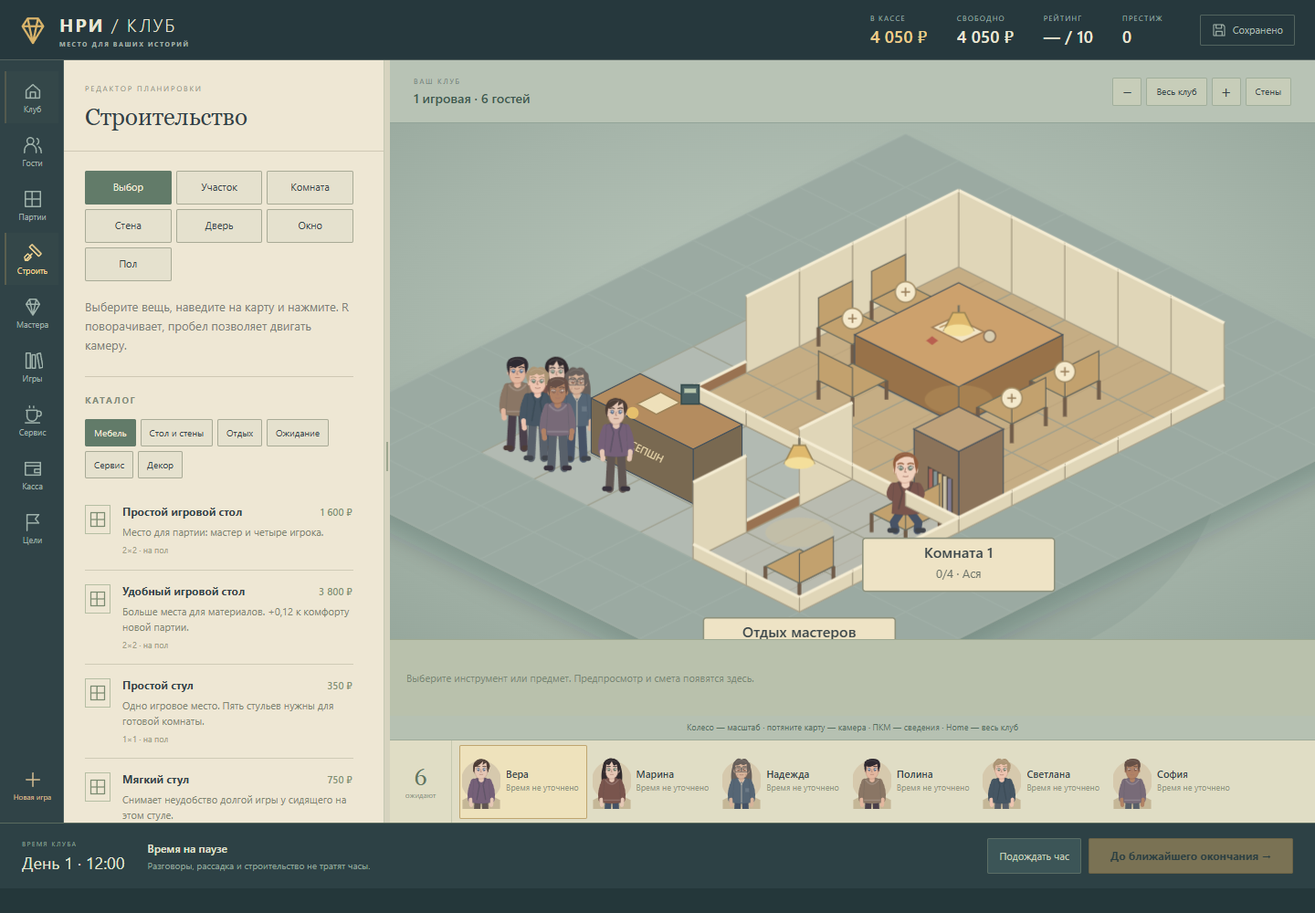
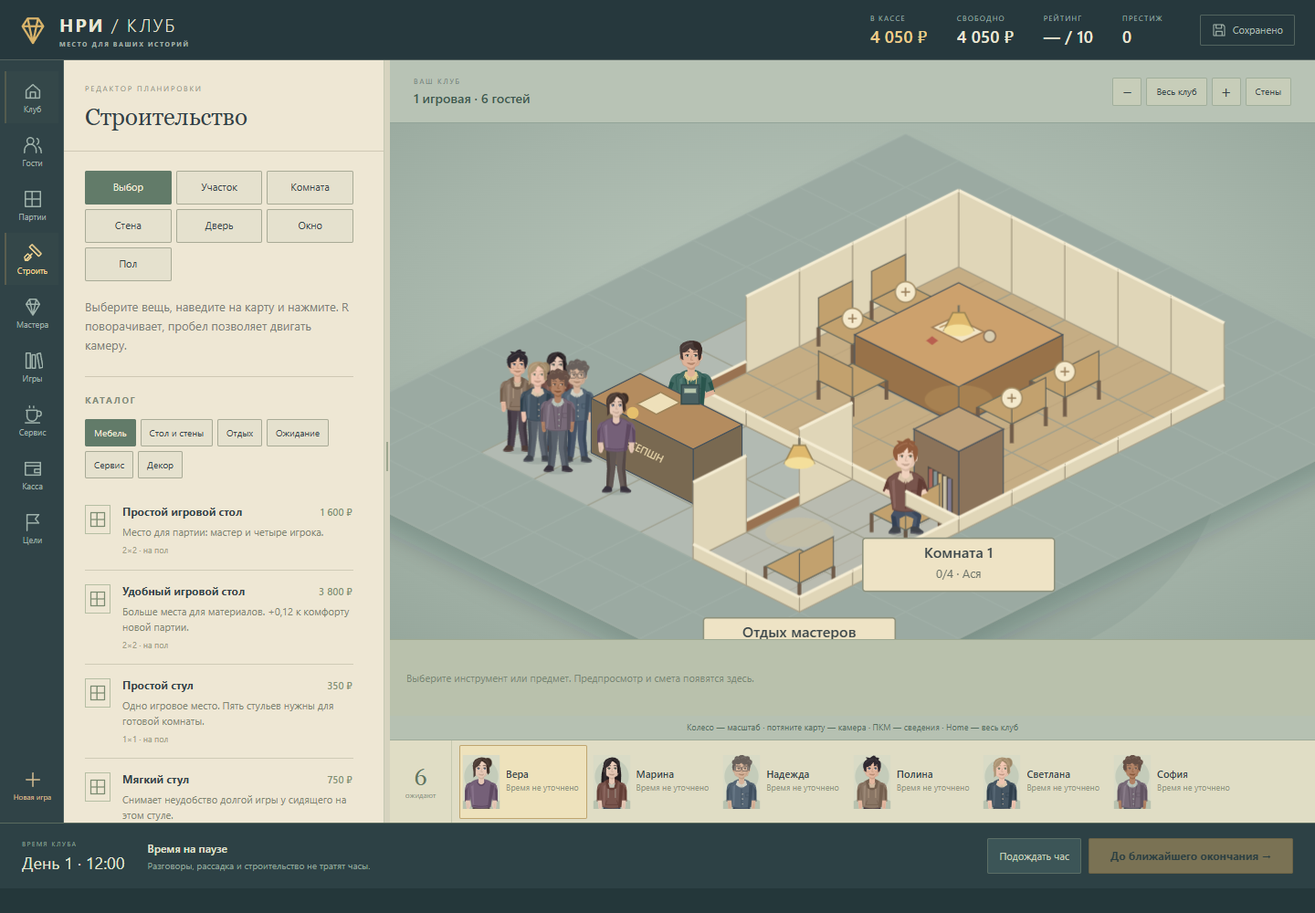
Add reception administrator and redraw club characters
Improve adult proportions, faces, hair, outfits and seated/back poses. Keep the administrator visible at every desk rotation. Validate 50 model checks and 19 silent browser scenarios; include live publication verification.

diff --git a/src/ui/people.js b/src/ui/people.js
@@ -1,25 +1,69 @@
 export const escapeHTML = value => String(value??'').replace(/[&<>"']/g,c=>({'&':'&amp;','<':'&lt;','>':'&gt;','"':'&quot;',"'":'&#39;'}[c]));
-export function personArt(person,{seated=false,back=false,drag=false}={}){
- const identity=person?.identity??person??{},p=identity.portrait??{},name=identity.name??person?.name??'';
- const seed=[...name].reduce((n,c)=>(n*31+c.charCodeAt(0))>>>0,7),hair=p.hairColor??['#624236','#352f35','#a66b42','#b4a591'][seed%4],skin=p.skin??'#edc2a3',shade=p.shade??'#c79d86',coat=p.coat??['#6e8791','#b77c61','#7d8063','#82758c'][seed%4],pants=p.trousers??'#374654',shoe=p.shoes??'#2c3039',eyes=p.iris??'#526c72';
- const headY=seated?-65:-96,shoulder=seated?-49:-80,hip=seated?-19:-43;
- const style=seed%5,long=/long|wave|bob|braid/.test(p.hair??'')||identity.grammar==='feminine'&&seed%3===0,older=(identity.age??person?.age??30)>47;
- const group=(className,x,y,art)=>'<g class="'+className+'" style="transform-origin:'+x+'px '+y+'px">'+art+'</g>';
- const leftLeg=seated?'<path d="M-6-19L-12-10-10-2" stroke="'+pants+'" stroke-width="8"/><path d="M-10-2h-6" stroke="'+shoe+'" stroke-width="5"/>':'<path d="M-6-43L-8-3" stroke="'+pants+'" stroke-width="10"/><path d="M-8-3h-6" stroke="'+shoe+'" stroke-width="6"/>';
- const rightLeg=seated?'<path d="M6-19L13-10 12-2" stroke="'+pants+'" stroke-width="8"/><path d="M12-2h6" stroke="'+shoe+'" stroke-width="5"/>':'<path d="M6-43L8-3" stroke="'+pants+'" stroke-width="10"/><path d="M8-3h6" stroke="'+shoe+'" stroke-width="6"/>';
- const armLeft=seated?'<path d="M-12-46Q-20-34-5-35" stroke="'+coat+'" stroke-width="9"/><path d="M-7-35h6" stroke="'+skin+'" stroke-width="5"/>':'<path d="M-12-77Q-19-62-17-48" stroke="'+coat+'" stroke-width="9"/><path d="M-17-48l1 9" stroke="'+skin+'" stroke-width="6"/>';
- const armRight=seated?'<path d="M12-46Q20-34 6-35" stroke="'+coat+'" stroke-width="9"/><path d="M7-35H3" stroke="'+skin+'" stroke-width="5"/>':'<path d="M12-77Q19-62 17-48" stroke="'+coat+'" stroke-width="9"/><path d="M17-48l-1 9" stroke="'+skin+'" stroke-width="6"/>';
- const outfit=seed%3===0?'<path d="M-5 '+(shoulder-1)+'L0 '+(shoulder+8)+'l5-9M0 '+(shoulder+8)+'V'+hip+'" stroke="#e9dbc1" opacity=".7" stroke-width="1.2" fill="none"/><path d="M6 '+(shoulder+14)+'h6v6H6Z" fill="#ffffff" opacity=".12"/>':seed%3===1?'<path d="M-10 '+(shoulder+1)+'Q0 '+(shoulder+14)+' 10 '+(shoulder+1)+'M-12 '+(hip-4)+'h24" fill="none" stroke="#ffffff" opacity=".16" stroke-width="2"/>':'<path d="M-7 '+(shoulder-2)+'L-3 '+(shoulder+9)+'l-4 '+(hip-shoulder-14)+'M7 '+(shoulder-2)+'L3 '+(shoulder+9)+'l4 '+(hip-shoulder-14)+'" fill="none" stroke="#202f35" opacity=".25" stroke-width="2"/>';
- const hairStyles=[
-  '<path d="M-12-1Q-16-15-3-17Q14-19 13-5L10 5 8-9Q-2-2-9-6l-1 12Z" fill="'+hair+'"/>',
-  '<path d="M-13 2Q-15-15-1-17Q13-16 14-5L10 6 8-11 2-7 3-13Q-5-5-10-4l-1 11Z" fill="'+hair+'"/>',
-  '<path d="M-12 1Q-17-8-10-14Q-6-20 0-16Q7-20 11-12Q17-9 12 3L9 6 8-9Q2-5-1-9Q-7-5-10-7l-1 13Z" fill="'+hair+'"/>',
-  '<path d="M-13 3Q-18-15-2-18Q12-18 14-4L10 7 8-8 3-6 0-13-4-7-9-8-10 8Z" fill="'+hair+'"/>',
-  '<path d="M-12 0Q-15-14-2-16Q10-17 13-5L11 6 8-10Q-1-15-10-6l-1 13Z" fill="'+hair+'"/>'
- ];
- const face=back?'': '<path d="M-8-4q3-2 6 0M2-4q3-2 6 0" fill="none" stroke="'+hair+'" stroke-width="1.2"/><path d="M-8-1Q-5-4-2 0Q-5 4-8-1M2 0Q5-4 8-1Q5 4 2 0" fill="#fff9ed" stroke="#5c4c49" stroke-width=".6"/><ellipse cx="-4.7" cy=".1" rx="1.65" ry="2.2" fill="'+eyes+'"/><ellipse cx="4.7" cy=".1" rx="1.65" ry="2.2" fill="'+eyes+'"/><circle cx="-4.5" cy="-.5" r=".6" fill="white"/><circle cx="5" cy="-.5" r=".6" fill="white"/><path d="M0 0l-1 4h2M-3 8q3 '+(seed%2?1.5:0)+' 6 0" fill="none" stroke="#a47667" stroke-width=".8"/>'+(older?'<path d="M-10 2l2 2M8 4l2-2M-6 7l-1 3M6 7l1 3" stroke="'+shade+'" stroke-width=".6"/>':'')+(p.glasses?'<path d="M-10-3h9v7h-9Zm11 0h9v7H1ZM-1-1h2" fill="none" stroke="#4a5152" stroke-width=".8"/>':'')+(p.freckles?'<path d="M-8 5h.1M-5 5h.1M5 5h.1M8 5h.1" stroke="#b58367" stroke-width="1"/>':'')+(p.beard?'<path d="M-9 6Q0 18 9 6L7 13Q0 18-7 13Z" fill="'+hair+'" opacity=".6"/>':'');
- return '<g class="person '+(seated?'is-seated':'')+'" stroke-linecap="round" stroke-linejoin="round">'+(long?'<path d="M-12 '+(headY-10)+'Q-20 '+(headY+6)+'-14 '+(shoulder+14)+'L14 '+(shoulder+14)+'Q20 '+(headY+7)+' 12 '+(headY-10)+'Z" fill="'+hair+'"/>':'')+group(drag?'limb leg-left':'',-6,hip,leftLeg)+group(drag?'limb leg-right':'',6,hip,rightLeg)+group(drag?'limb arm-left':'',-12,shoulder,armLeft)+group(drag?'limb arm-right':'',12,shoulder,armRight)+'<path d="M-12 '+shoulder+'Q0 '+(shoulder-7)+' 12 '+shoulder+'L14 '+hip+'Q0 '+(hip+3)+'-14 '+hip+'Z" fill="'+coat+'" stroke="#26333d" stroke-opacity=".18" stroke-width=".8"/><path d="M-4 '+(headY+10)+'V'+(shoulder+2)+'q4 5 8 0V'+(headY+10)+'" fill="'+skin+'"/>'+(!back?outfit:'')+'<g transform="translate(0 '+headY+')"><path d="M-10-6Q-12-14 0-14T10-6v10Q8 14 0 15T-10 4Z" fill="'+(back?hair:skin)+'" stroke="'+shade+'" stroke-width=".65"/><ellipse cx="-10.5" cy="2" rx="2" ry="3" fill="'+skin+'"/><ellipse cx="10.5" cy="2" rx="2" ry="3" fill="'+skin+'"/>'+face+hairStyles[style]+'<path d="M-9-11q8-7 17 0" fill="none" stroke="#ffffff" stroke-opacity=".12" stroke-width="1"/></g></g>';
+
+// One miniature style for portraits, walking and seated people. Feet remain
+// at the origin and every animated limb stays attached to its joint.
+export const ADMINISTRATOR=Object.freeze({name:'Администратор',age:32,grammar:'masculine',role:'administrator',portrait:Object.freeze({skin:'#dfb399',hairColor:'#493b37',hair:'short',coat:'#426b64',trousers:'#344349',shoes:'#303b3e',accent:'#d4bd86',iris:'#536d62',outfit:'vest',bodyShape:'regular',face:2})});
+const color=(value,fallback)=>/^#[\da-f]{6}$/i.test(value??'')?value:fallback;
+function tint(hex,amount){const n=parseInt(hex.slice(1),16),part=shift=>Math.max(0,Math.min(255,(n>>shift&255)+amount)).toString(16).padStart(2,'0');return '#'+part(16)+part(8)+part(0);}
+const path=(d,fill,extra='')=>'<path d="'+d+'" fill="'+fill+'" '+extra+'/>';
+const line=(d,stroke,width=1)=>path(d,'none','stroke="'+stroke+'" stroke-width="'+width+'"');
+const limb=(name,x,y,art)=>'<g class="limb '+name+'" style="transform-origin:'+x+'px '+y+'px">'+art+'</g>';
+
+export function personArt(person,{seated=false,back=false,drag=false,reception=false}={}){
+ const identity=person?.identity??person??{},p=identity.portrait??{},name=identity.name??person?.profile?.name??person?.name??'Гость';
+ const seed=[...name].reduce((n,c)=>(n*31+c.charCodeAt(0))>>>0,7),skin=color(p.skin,'#e3b79e'),skinDark=tint(skin,-24),skinLight=tint(skin,13),hair=color(p.hairColor,'#57433a'),hairDark=tint(hair,-15),hairLight=tint(hair,21),coat=color(p.coat,['#627f84','#9c705c','#728368','#82718b'][seed%4]),coatDark=tint(coat,-23),coatLight=tint(coat,17),pants=color(p.trousers,'#3c4e58'),shoe=color(p.shoes,'#303b42'),accent=color(p.accent,'#d8cab2'),eyes=color(p.iris,'#5a6c66');
+ const head=seated?-77:-104,shoulder=seated?-58:-85,hip=seated?-22:-49,build=p.bodyShape??['lean','regular','soft','broad','compact'][seed%5],wide=build==='broad'?18:build==='lean'?14:16,waist=build==='soft'?14:build==='lean'?10:12,age=identity.age??person?.age??30,style=p.hair??['short','bob','curly','tied'][seed%4],outfit=p.outfit??['shirt','hoodie','cardigan','sweater'][seed%4],admin=identity.role==='administrator';
+ const faceWidth=[9.2,9.8,10,8.8,9.5,10.4][(p.face??seed)%6],jaw=faceWidth-2,ink=tint(hair,-14),happy=['happy','delighted'].includes(p.expression),eyeY=p.eastAsian?-.5:0;
+ let hairBehind='';
+ if(['long','braid','ponytail'].includes(style))hairBehind=path('M-10 '+(head-7)+'Q-17 '+(head+5)+'-14 '+(shoulder+13)+'Q-6 '+(shoulder+20)+' 2 '+(shoulder+10)+'L11 '+(shoulder+12)+'Q16 '+(head+7)+' 10 '+(head-9)+'Z',hairDark)+path('M-10 '+head+'Q-13 '+(head+15)+'-10 '+(shoulder+10)+'L-7 '+(shoulder+12)+'Q-8 '+(head+10)+'-7 '+head+'Z',hair);
+ if(['tied','ponytail'].includes(style))hairBehind+='<ellipse cx="9" cy="'+(head-8)+'" rx="6" ry="7" fill="'+hairDark+'"/>'+(style==='ponytail'?path('M11 '+(head-8)+'Q24 '+head+' 17 '+(head+25)+'Q12 '+(head+19)+' 14 '+(head+7)+'Z',hair):'');
+ if(style==='bob')hairBehind=path('M-11 '+(head-6)+'Q-17 '+(head+4)+'-13 '+(head+19)+'Q0 '+(head+25)+' 13 '+(head+17)+'L12 '+(head-6)+'Z',hairDark);
+ const leftLeg=seated?path('M-11-24Q-12-21-15-17L-13-4-6-4-6-14 0-17 0-24Z',pants)+path('M-14-17L-10-16-8-4-13-4Z',tint(pants,-19)):path('M-12-51L1-50-1-27-4-4-12-4-11-27Z',pants)+path('M-12-49L-8-47-7-27-9-4-12-4-11-27Z',tint(pants,-17));
+ const rightLeg=seated?path('M0-24L11-24 16-17 13-3 6-3 8-14 0-17Z',tint(pants,5))+path('M12-21L16-17 13-3 10-3 12-15 6-20Z',tint(pants,-12)):path('M0-50L12-50 11-27 13-4 5-4 1-26Z',tint(pants,6))+path('M9-48L12-49 11-27 13-4 10-4 7-27Z',tint(pants,-13));
+ const shoesLeft=path('M-13-6Q-9-7-5-4L-5 0Q-10 3-17 1L-17-1Z',shoe)+line('M-16 0Q-11 2-5 0',tint(shoe,27),1.1),shoesRight=path('M5-5Q8-7 13-5L18-1Q19 2 13 2L5 1Z',shoe)+line('M6 0Q13 2 17 0',tint(shoe,27),1.1);
+ let arms='';
+ for(const side of [-1,1]){
+  const sleeve=seated?path('M11-58Q18-58 20-51L23-42 16-38 10-48Z',coat)+path('M19-52L23-42 20-40 16-50Z',coatDark):reception?path('M11-85Q19-86 22-78L25-66 18-61 12-72Z',coat)+path('M22-77L25-66 22-64 18-75Z',coatDark):path('M'+(wide-6)+' '+(shoulder+1)+'Q'+(wide+4)+' '+(shoulder-1)+' '+(wide+5)+' '+(shoulder+10)+'L'+(wide+5)+' '+(shoulder+27)+' '+(wide-2)+' '+(shoulder+28)+' '+(wide-4)+' '+(shoulder+11)+'Z',coat)+path('M'+(wide+1)+' '+(shoulder+7)+'L'+(wide+5)+' '+(shoulder+12)+' '+(wide+5)+' '+(shoulder+27)+' '+(wide+2)+' '+(shoulder+27)+'Z',coatDark);
+  const hand=seated?path('M20-44L22-40 10-35 7-39Z',skin)+path('M8-40Q3-41 2-38L3-35 10-35 12-38Z',skinLight)+line('M4-37h5',skinDark,.6):reception?path('M24-68L25-63 11-57 8-62Z',skin)+path('M10-63Q4-64 2-61L3-57 11-57 13-60Z',skinLight)+line('M4-59h5',skinDark,.6):path('M'+(wide-2)+' '+(shoulder+26)+'L'+(wide+4)+' '+(shoulder+26)+' '+(wide+3)+' '+(shoulder+36)+'Q'+(wide+2)+' '+(shoulder+40)+' '+(wide-1)+' '+(shoulder+38)+'L'+(wide-3)+' '+(shoulder+33)+'Z',skin)+line('M'+(wide+1)+' '+(shoulder+31)+'v5',skinDark,.6);
+  arms+=limb(side===-1?'arm-left':'arm-right',side*(wide-3),shoulder,'<g transform="scale('+side+' 1)">'+sleeve+hand+'</g>');
+ }
+ let body=path('M-'+(wide-6)+' '+(shoulder-1)+'Q0 '+(shoulder-7)+' '+(wide-6)+' '+(shoulder-1)+'L'+wide+' '+(shoulder+4)+' '+(waist+1)+' '+(hip-1)+'Q0 '+(hip+3)+'-'+(waist+1)+' '+(hip-1)+'L-'+wide+' '+(shoulder+4)+'Z',coat,'stroke="'+coatDark+'" stroke-width=".65"');
+ body+=path('M'+(wide-5)+' '+(shoulder+3)+'L'+wide+' '+(shoulder+5)+' '+(waist+1)+' '+(hip-1)+' '+(waist-3)+' '+(hip+1)+'Z',coatDark)+path('M-'+(wide-4)+' '+(shoulder+6)+'L-'+(wide-7)+' '+(shoulder+4)+' -'+(waist-2)+' '+(hip-3)+' -'+waist+' '+(hip-2)+'Z',coatLight);
+ if(!back){
+  if(outfit==='hoodie')body+=path('M-9 '+(shoulder-1)+'Q0 '+(shoulder-9)+' 9 '+(shoulder-1)+'L7 '+(shoulder+8)+'Q0 '+(shoulder+15)+'-7 '+(shoulder+8)+'Z',coatDark)+path('M-5 '+(shoulder+1)+'Q0 '+(shoulder+5)+' 5 '+(shoulder+1)+'L3 '+(shoulder+8)+'H-3Z',accent)+line('M-5 '+(shoulder+10)+'v12M5 '+(shoulder+10)+'v12',tint(accent,-15),.8)+line('M-7 '+(hip-10)+'L-9 '+(hip-4)+'H9L7 '+(hip-10),coatDark,1);
+  else if(['shirt','vest','cardigan'].includes(outfit)){
+   body+=path('M-6 '+(shoulder-2)+'L0 '+(shoulder+9)+' 6 '+(shoulder-2)+'Z',accent)+path('M-6 '+(shoulder-2)+'L-8 '+(shoulder+4)+' -2 '+(shoulder+8)+' 0 '+(shoulder+3)+' 2 '+(shoulder+8)+' 8 '+(shoulder+4)+' 6 '+(shoulder-2)+' 0 '+(shoulder+3)+'Z',tint(accent,13))+line('M0 '+(shoulder+10)+'V'+(hip-2),coatDark,.9);
+   if(outfit!=='shirt')body+=line('M-7 '+(shoulder+3)+'L-5 '+(shoulder+11)+' -3 '+(hip-1)+'M7 '+(shoulder+3)+'L5 '+(shoulder+11)+' 3 '+(hip-1),tint(coat,-35),.8);
+   for(let i=0;i<3;i++)body+='<circle cx="1.5" cy="'+(shoulder+17+i*7)+'" r=".65" fill="'+accent+'"/>';
+   body+=line('M6 '+(shoulder+16)+'h6v5H6Z',coatDark,.75);
+  }else body+=path('M-7 '+(shoulder-2)+'Q0 '+(shoulder+8)+' 7 '+(shoulder-2)+'L5 '+(shoulder+3)+'Q0 '+(shoulder+9)+'-5 '+(shoulder+3)+'Z',coatDark)+line('M-'+waist+' '+(hip-3)+'Q0 '+hip+' '+waist+' '+(hip-3),coatDark,1.3);
+  if(admin)body+=line('M-4 '+(shoulder+4)+'L-2 '+(shoulder+22)+' 4 '+(shoulder+22)+' 6 '+(shoulder+4),accent,1.1)+path('M-3 '+(shoulder+20)+'h9v7H-3Z','#e9dfbf','stroke="'+coatDark+'" stroke-width=".5"')+line('M-1 '+(shoulder+23)+'h5',coatDark,.7);
+ }else body+=line('M0 '+(shoulder+5)+'V'+(hip-4),coatDark,.65)+line('M-'+(wide-4)+' '+(shoulder+9)+'Q0 '+(shoulder+4)+' '+(wide-4)+' '+(shoulder+9),coatDark,.65);
+ const neck=path('M-3.8 '+(head+8)+'L-4 '+(shoulder+1)+'Q0 '+(shoulder+6)+' 4 '+(shoulder+1)+'L3.8 '+(head+8)+'Z',back?skinDark:skin)+path('M-3.8 '+(head+9)+'Q0 '+(head+15)+' 4 '+(head+9)+'V'+(head+14)+'Q0 '+(head+17)+'-4 '+(head+13)+'Z',skinDark);
+ let face=path('M-'+faceWidth+'-5Q-'+(faceWidth+1)+'-12 0-12Q'+(faceWidth+1)+'-12 '+faceWidth+'-5L'+faceWidth+' 3Q'+(faceWidth-1)+' 8 '+jaw+' 10L2 13Q0 14-2 13L-'+jaw+' 10Q-'+faceWidth+' 7-'+faceWidth+' 3Z',back?hair:skin,'stroke="'+(back?hairDark:skinDark)+'" stroke-width=".5"');
+ face+='<ellipse cx="-'+(faceWidth+.25)+'" cy="2" rx="1.8" ry="3" fill="'+skinDark+'"/><ellipse cx="'+(faceWidth+.25)+'" cy="2" rx="1.8" ry="3" fill="'+skin+'"/>';
+ if(!back){
+  face+=path('M2-11Q'+(faceWidth+1)+'-11 '+faceWidth+'-4V4Q8 10 2 13L6 7 7-3Z',skinDark,'opacity=".5"')+path('M-7-7Q-1-11 4-7L3-4Q-2-6-6-3Z',skinLight,'opacity=".5"')+line('M-7-3.8Q-4-5.3-1.5-3.8M2.5-3.8Q5-5 7.7-3.2',hair,.85);
+  for(const x of [-4.2,4.7])face+=path('M'+(x-2)+' '+eyeY+'Q'+x+' '+(eyeY-2)+' '+(x+2)+' '+eyeY+'Q'+x+' '+(eyeY+1.8)+' '+(x-2)+' '+eyeY+'Z','#f8eee1')+'<ellipse cx="'+(x+.35)+'" cy="'+eyeY+'" rx=".95" ry="1.25" fill="'+eyes+'"/><circle cx="'+(x+.5)+'" cy="'+(eyeY-.25)+'" r=".55" fill="#283739"/>'+line('M'+(x-2)+' '+eyeY+'Q'+x+' '+(eyeY-2)+' '+(x+2)+' '+eyeY,ink,.7);
+  face+=line('M.8 0L-.3 4.6 2.3 4.8',tint(skin,-44),.65)+path('M-5 7.5Q0 '+(happy?11:9)+' 5 7.5L2 10H-1Z',tint(skin,-40))+line('M-3.8 7.7Q0 '+(happy?9.6:8.8)+' 4 7.7',tint(skin,-61),.55);
+  if(p.beard)face+=path('M-8 5L-5 7-3 5 0 6 3 5 6 7 9 4 8 10 2 13-2 13-7 10Z',hair,'opacity=".8"')+path('M-3 7Q0 9 4 7L2 9H-1Z',skin);
+  if(p.moustache)face+=path('M-5 6Q-1 3 0 5Q3 3 6 6L2 7 0 6-2 7Z',hair);
+  if(age>=48)face+=line('M-8 3l1.5 1M7.5 3l1 1M-6 6l-1 3M6 6l1 3M-5-7h8',skinDark,.55);
+  if(p.freckles)for(const x of [-7,-5,5,7])face+='<circle cx="'+x+'" cy="4.5" r=".48" fill="'+tint(skin,-47)+'"/>';
+  if(p.glasses)face+='<g stroke="'+ink+'" stroke-width=".75" fill="#cfdfda" fill-opacity=".08"><rect x="-9" y="-2.5" width="8" height="6" rx="2"/><rect x="1" y="-2.5" width="8" height="6" rx="2"/>'+line('M-1-1h2M-9-1l-2-.5M9-1l2-.5',ink,.75)+'</g>';
+ }
+ let hairFront='';
+ if(back)hairFront=path('M-11-3Q-14-14-2-16Q11-17 12-5L10 9Q0 16-10 9Z',hair)+path('M1-13Q10-11 9 5L7 9Q5 3 5-5Z',hairDark)+line('M-8-9Q-3-14 3-12',hairLight,.8);
+ else if(style==='shaved')hairFront=path('M-10 1L-11-6Q-9-14 0-14Q10-14 11-5L10 2 8-4Q4-11-3-10L-8-5-8 2Z',hair,'opacity=".7"');
+ else if(style==='curly')hairFront=path('M-11 3Q-15-1-12-6Q-16-10-10-13Q-10-19-4-17Q0-22 5-17Q12-19 12-13Q18-10 13-5L11 4 8 1 8-6Q3-3 0-8Q-5-4-8-7L-8 2Z',hair)+line('M-9-12q3-5 6-1M0-14q3-4 6 0M8-10q4-2 4 2',hairLight,.85);
+ else if(['long','braid','ponytail','tied','bob'].includes(style))hairFront=path('M-11 4Q-15-12-4-15Q6-18 11-10L12 6 9 9 8-6Q3-11 0-10Q-3-3-8-1L-8 10-11 13Z',hair)+path('M0-12Q4-17 9-10L11 4 8 7 7-6Z',hairDark)+line('M-10-3Q-9-11-1-13M3-12Q8-12 9-5',hairLight,.9);
+ else if(style==='pixie')hairFront=path('M-11 3Q-16-8-7-13L-9-16-3-15Q4-21 5-16L10-15 9-12Q15-9 11 3L9 6 7-6 3-3 2-9Q-3-2-8-2L-8 5Z',hair)+line('M-9-8Q-4-13 2-13M4-13l4 3',hairLight,.9);
+ else hairFront=path('M-11 3L-12-6Q-13-13-5-15Q3-18 10-13L12-7 10 4 8 5 7-6Q2-4-1-8Q-5-3-9-3L-8 5Z',hair)+path('M2-15Q10-16 12-7L10 4 8 5 7-6 3-9Z',hairDark)+line('M-9-8Q-5-13 1-13',hairLight,1);
+ if(style==='braid')hairFront+=path('M8 10q7 3 1 7 7 3 0 7 6 4-1 6L4 24q5-4 0-7 5-3 1-7Z',hair)+line('M7 12l3 4-4 4 4 4',hairDark,.8);
+ if(age>=50&&style!=='shaved')hairFront+=line('M-9-3l-.5 5M9-3l.5 5',tint(hair,44),1.4);
+ return '<g class="person '+(seated?'is-seated ':'')+(drag?'is-held ':'')+(admin?'administrator-figure':'')+'" stroke-linecap="round" stroke-linejoin="round"><ellipse cy=".7" rx="17" ry="4" fill="#263b3c" opacity=".13"/>'+(back?'':hairBehind)+limb('leg-left',-6,hip,leftLeg+shoesLeft)+limb('leg-right',6,hip,rightLeg+shoesRight)+arms+body+neck+(back?hairBehind:'')+'<g class="person-head" transform="translate(0 '+head+')">'+face+hairFront+'</g></g>';
 }
+
 export function portrait(person,options={}){
- return '<svg class="portrait-art" viewBox="-30 -119 60 86" aria-hidden="true"><circle cy="-78" r="32" fill="#d6c9ad"/><path d="M-30-33v-14Q0-65 30-47v14" fill="#c5b797"/><g>'+personArt(person,options)+'</g></svg>';
+ return '<svg class="portrait-art" viewBox="-26 -123 52 76" aria-hidden="true"><path d="M-26-123H26V-47H-26Z" fill="#d9dbc6"/><circle cx="0" cy="-93" r="24" fill="#c4ccba"/><path d="M-26-47v-11Q0-72 26-58v11" fill="#b8c2af"/>'+personArt(person,options)+'</svg>';
 }

diff --git a/src/ui/studio.css b/src/ui/studio.css
@@ -7,7 +7,7 @@
 .side-panel{display:flex;flex-direction:column;min-height:0;min-width:0;background:var(--paper);box-shadow:1px 0 0 #233c3f1a;overflow:hidden}.panel-heading{padding:25px 23px 20px;flex-shrink:0;border-bottom:1px solid var(--line)}.panel-heading>small{display:block;color:#92947e;font-size:8px;letter-spacing:1.8px;margin-bottom:10px}.panel-content{overflow-y:auto;overflow-x:hidden;min-height:0;padding:21px 23px 28px;scrollbar-gutter:stable;scrollbar-width:thin;scrollbar-color:#a8ac96 transparent}.panel-content::-webkit-scrollbar{width:6px}.panel-content::-webkit-scrollbar-thumb{background:#a8ac96}.panel-resizer{background:#d6d3bf;cursor:col-resize;position:relative;border-left:1px solid #c5c8b3;touch-action:none}.panel-resizer:after{content:"";position:absolute;width:2px;height:32px;background:#9da68f;top:50%;left:2px}.panel-resizer:hover{background:#bfbea6}.panel-section{margin:23px 0 0;padding-top:19px;border-top:1px solid var(--line)}.panel-section>h2{font-size:10px;letter-spacing:1.5px;text-transform:uppercase;color:#828b78;font-weight:650;margin-bottom:15px}.metric{display:flex;justify-content:space-between;align-items:baseline;gap:12px;padding:7px 0;font-size:12px}.metric>span{color:#7b8277}.metric>b{font-weight:600;font-variant-numeric:tabular-nums;text-align:right}.notice{padding:12px;border-left:3px solid #b99b61;background:#e4dcc3;font-size:12px;line-height:1.6;margin:12px 0}.notice.error{border-color:#b57059;background:#e7d7c5}.inline-confirm{background:#e4d4ae;border:1px solid #c4ab76;padding:17px;margin:0 0 22px}.inline-confirm>small{display:block;font-size:8px;letter-spacing:1px;margin-bottom:9px;color:#88764f}.inline-confirm h2{font-size:17px}
 .map-pane{display:grid;grid-template-rows:69px minmax(0,1fr) auto 26px 91px;background:#a5b2a8;position:relative;min-width:0;min-height:0;overflow:hidden}.map-heading{display:flex;justify-content:space-between;align-items:center;padding:0 26px;gap:10px;background:#b8c3b5;border-bottom:1px solid #91a397;z-index:2}.map-heading small{display:block;font-size:8px;letter-spacing:1.6px;color:#6e8377;margin-bottom:4px}.map-heading strong{font-size:14px;font-weight:500;color:#40594f}.camera-controls{display:flex;gap:5px}.camera-controls button{background:#c7cdb9;border-color:#a0ae9b;min-height:31px;font-size:10px;padding:6px 10px}.camera-controls button:first-child,.camera-controls button:nth-child(3){width:32px;padding:0;font-size:18px}#world-host{position:relative;overflow:hidden;min-height:0;min-width:0;background:radial-gradient(ellipse at 48% 45%,#bfccc0 0,#a5b4a9 67%,#95a69b 100%)}.world-svg{display:block;position:absolute;inset:0;width:100%;height:100%;touch-action:none;user-select:none;cursor:grab}.world-svg.panning{cursor:grabbing}.world-object,.map-person,.empty-seat,.room-label{cursor:pointer}.world-object.selected{filter:drop-shadow(0 0 3px #f9d77c)}.room-label text{font-family:"Segoe UI",sans-serif;font-size:10px;font-weight:600;pointer-events:none}.room-label .label-sub{font-size:8px;font-weight:400}.map-person:hover{filter:drop-shadow(0 0 2px #fff3c0)}.map-help{font-size:9px;letter-spacing:.1px;text-align:center;color:#546d5e;white-space:nowrap;overflow:hidden;text-overflow:ellipsis;background:#b6c1b2;padding:6px}.build-preview{padding:12px 18px;background:#dfd7ba;border-top:1px solid #acb39b;display:flex;justify-content:space-between;align-items:center;gap:10px;z-index:2}.build-preview[hidden]{display:none}.build-preview>div:first-child{min-width:0}.build-preview small{font-size:8px;letter-spacing:1px;color:#8b876a;display:block}.build-preview b{font-size:15px;display:block;margin-top:4px;line-height:1.3}.build-preview span{display:block;font-size:11px;color:#7d806b;margin-top:4px}.build-preview .button-row{margin:0;flex-shrink:0}.build-preview.invalid b{color:#9a5d4a}
 .guest-queue{display:flex;align-items:stretch;background:#e0ddc5;border-top:1px solid #9fab99;overflow:hidden;min-width:0;z-index:2}.queue-label{width:68px;display:flex;flex-direction:column;align-items:center;justify-content:center;border-right:1px solid #c6c8af;flex-shrink:0}.queue-label b{font-family:Georgia,serif;font-size:25px;color:#62765f;font-weight:400}.queue-label span{font-size:8px;color:#8c927c}.queue-list{display:flex;align-items:stretch;overflow-x:auto;overflow-y:hidden;min-width:0;scrollbar-width:thin;scrollbar-color:#a4ac94 transparent;padding:5px 8px 4px;gap:3px}.queue-person{display:grid;grid-template-columns:42px auto;grid-template-rows:1fr 1fr;align-items:center;text-align:left;min-width:126px;max-width:180px;flex-shrink:0;border:1px solid transparent;background:transparent;padding:3px 8px 3px 2px;column-gap:6px}.queue-person>span{grid-row:1/3;display:block;height:59px;touch-action:none;cursor:grab}.portrait-art{display:block;width:100%;height:100%;pointer-events:none}.queue-person b{font-size:11px;font-weight:600;align-self:end;margin-bottom:2px}.queue-person small{font-size:9px;color:#91957e;align-self:start;white-space:nowrap}.queue-person.active{border-color:#bfa56f;background:#eee2bc}.queue-person:hover:not(:disabled){background:#e9e4cb}.empty-queue{padding:25px;color:#899179;font-size:12px}
-.timebar{display:flex;align-items:center;gap:25px;background:#2d4145;border-top:1px solid #5a6b5e;color:#e2e5d2;padding:0 24px;min-width:0}.clock small{font-size:7px;letter-spacing:1.4px;color:#8ea399;display:block;margin-bottom:4px}.clock strong{font-size:18px;font-weight:400;font-variant-numeric:tabular-nums;white-space:nowrap}.time-status{min-width:0}.time-status b{display:block;font-size:12px;font-weight:500}.time-status span{display:block;font-size:10px;color:#91a69b;margin-top:4px;white-space:nowrap;overflow:hidden;text-overflow:ellipsis}.time-actions{margin-left:auto;display:flex;gap:8px;flex-shrink:0}.time-actions button:not(.primary){background:#3c5557;color:#c6d0bd;border-color:#5b6e65;font-size:11px}.time-actions .primary{min-width:224px;min-height:39px;font-size:12px}.game-message{padding:6px 18px;background:#24373a;color:#a1b2a2;font-size:9px;line-height:1.5;overflow:hidden;white-space:nowrap;text-overflow:ellipsis}.game-message.is-error{color:#efb49a}.drag-person{position:fixed;top:0;left:0;width:70px;height:100px;z-index:1000;pointer-events:none;filter:drop-shadow(3px 10px 7px #1b333a55)}.drag-person[hidden]{display:none}.drag-person svg{width:70px;height:100px;overflow:visible}.arm-left{transform-origin:-11px -35px;animation:rag-arm .5s ease-in-out infinite alternate}.arm-right{transform-origin:11px -35px;animation:rag-arm .38s ease-in-out infinite alternate-reverse}.leg-left{transform-origin:-6px -19px;animation:rag-arm .45s ease-in-out infinite alternate-reverse}.leg-right{transform-origin:6px -19px;animation:rag-arm .6s ease-in-out infinite alternate}.playing .person{animation:table-idle 3s ease-in-out infinite alternate}.waiting-person .person{animation:table-idle 4.2s ease-in-out infinite alternate}
+.timebar{display:flex;align-items:center;gap:25px;background:#2d4145;border-top:1px solid #5a6b5e;color:#e2e5d2;padding:0 24px;min-width:0}.clock small{font-size:7px;letter-spacing:1.4px;color:#8ea399;display:block;margin-bottom:4px}.clock strong{font-size:18px;font-weight:400;font-variant-numeric:tabular-nums;white-space:nowrap}.time-status{min-width:0}.time-status b{display:block;font-size:12px;font-weight:500}.time-status span{display:block;font-size:10px;color:#91a69b;margin-top:4px;white-space:nowrap;overflow:hidden;text-overflow:ellipsis}.time-actions{margin-left:auto;display:flex;gap:8px;flex-shrink:0}.time-actions button:not(.primary){background:#3c5557;color:#c6d0bd;border-color:#5b6e65;font-size:11px}.time-actions .primary{min-width:224px;min-height:39px;font-size:12px}.game-message{padding:6px 18px;background:#24373a;color:#a1b2a2;font-size:9px;line-height:1.5;overflow:hidden;white-space:nowrap;text-overflow:ellipsis}.game-message.is-error{color:#efb49a}.drag-person{position:fixed;top:0;left:0;width:70px;height:100px;z-index:1000;pointer-events:none;filter:drop-shadow(3px 10px 7px #1b333a55)}.drag-person[hidden]{display:none}.drag-person svg{width:70px;height:100px;overflow:visible}.is-held .arm-left,.is-walking .arm-left{transform-origin:-11px -35px;animation:rag-arm .5s ease-in-out infinite alternate}.is-held .arm-right,.is-walking .arm-right{transform-origin:11px -35px;animation:rag-arm .38s ease-in-out infinite alternate-reverse}.is-held .leg-left,.is-walking .leg-left{transform-origin:-6px -19px;animation:rag-arm .45s ease-in-out infinite alternate-reverse}.is-held .leg-right,.is-walking .leg-right{transform-origin:6px -19px;animation:rag-arm .6s ease-in-out infinite alternate}.playing .person{animation:table-idle 3s ease-in-out infinite alternate}.waiting-person .person{animation:table-idle 4.2s ease-in-out infinite alternate}
 @keyframes rag-arm{from{transform:rotate(-14deg)}to{transform:rotate(18deg)}}@keyframes table-idle{from{transform:translateY(0)}to{transform:translateY(-.6px)}}
 .club-cover{border:1px solid #b9bba0;background:#d6d9bc;padding:18px 18px 22px;position:relative;overflow:hidden}.cover-line{font-size:7px;letter-spacing:1.6px;color:#889171}.cover-mark{position:absolute;right:-12px;top:20px;width:115px;height:135px;color:#8a9878;opacity:.25;transform:rotate(13deg)}.cover-mark svg{width:100%;height:100%}.club-cover h2{font-family:Georgia,serif;font-size:23px;line-height:1.25;font-weight:400;margin:26px 0 12px;position:relative}.club-cover p{font-size:10px;color:#7e896b}.onboarding{padding:18px;background:#e5dcc1;border-left:3px solid #c3a566;margin-top:20px}.onboarding>small{font-size:8px;letter-spacing:1px;color:#9d8d65}.onboarding h3{font-size:17px;margin:9px 0}.onboarding p{color:#817d66;font-size:12px}.list-row{width:100%;display:flex;align-items:center;gap:12px;text-align:left;border-width:0 0 1px;border-color:#d4cfba;background:transparent;padding:12px 0;border-radius:0}.list-row>span:not(.badge):not(.room-number):not(.mini-portrait){flex:1;min-width:0}.list-row b{display:block;font-size:12px;font-weight:600}.list-row small{display:block;font-size:10px;color:#8a8e78;margin-top:5px;line-height:1.4}.room-number{display:grid;place-items:center;width:30px;height:34px;border:1px solid #c5c4a9;color:#89916f;font-size:17px;font-family:Georgia,serif;flex-shrink:0}.list-row:hover:not(:disabled){background:#e4dfc9;border-color:#c1c2a8}.room-switcher{display:grid;gap:1px}.room-description{color:#7d8172;font-size:12px}.mini-portrait{width:40px;height:45px;flex-shrink:0}
 .guest-intro{display:flex;gap:17px;align-items:center}.guest-portrait{width:105px;height:114px;flex-shrink:0;background:#c7ccaf;touch-action:none;cursor:grab;overflow:hidden;border:1px solid #aeb69b}.guest-intro h2{font-family:Georgia,serif;font-weight:400;font-size:26px;margin:7px 0}.guest-intro>div>small{font-size:8px;letter-spacing:1.1px;color:#92967b}.guest-intro p{font-size:11px;color:#868b75}.guest-quote{position:relative;border-left:2px solid #b29b69;font-family:Georgia,serif;font-size:15px;line-height:1.7;padding:13px 15px;background:#e5dec5;margin:19px 0 0}.questions{display:grid;gap:5px}.questions button{text-align:left;font-size:12px;display:flex;align-items:center;justify-content:space-between;padding:9px 10px;background:transparent;border-color:#c6c4ad}.questions button.heard{color:#7e8b6f;border-color:#c6ceb4}.questions button span{color:#8a9b70}details{margin:14px 0;font-size:12px;color:#7d8674}summary{cursor:pointer;padding:8px 0}details .questions{margin-top:10px}.heard-answer{padding:10px 0;border-bottom:1px solid #d4cfba}.heard-answer>small{color:#8b947b}.heard-answer p{font-size:12px;margin-bottom:0}.seat-group{margin-top:14px}.seat-group>b{font-size:11px;color:#80896f}.seat-buttons{display:grid;grid-template-columns:repeat(4,1fr);gap:4px;margin-top:7px}.seat-buttons button{padding:5px;font-size:10px;min-height:37px}.seat-buttons .occupied{background:#d0d3b8;color:#63765e}

diff --git a/src/ui/world.js b/src/ui/world.js
@@ -4,7 +4,7 @@ import {ownedCells} from '../model/campaign-layout.js';
 import {staffSeatForMaster} from '../model/staff-room.js';
 import {guestWaitingStatus} from '../model/guest-waiting.js';
 import {receptionStatus} from '../model/reception-area.js';
-import {personArt,escapeHTML as esc} from './people.js';
+import {personArt,ADMINISTRATOR,escapeHTML as esc} from './people.js';
 
 export const project=(x,y,z=0)=>({x:(x-y)*36,y:(x+y)*18-z});
 export const unproject=(x,y)=>({x:x/72+y/36,y:y/36-x/72});
@@ -24,7 +24,11 @@ export function furnitureArt(o,layout,{selected=false,ghost=false}={}){
  const at=inner=>'<g transform="translate('+p.x+' '+p.y+')">'+inner+'</g>';
  if(item.family==='reception'){
   const top=project(o.x+w/2,o.y+h/2,40),front=project(o.x+w*.5,o.y+h,18);
-  return group(box(o.x+.04,o.y+.04,w-.08,h-.08,37,'#b48c5e','#796951')+'<g transform="translate('+top.x+' '+top.y+')"><path d="M-20-2l16-8 13 7-16 8Z" fill="#eee0ba" stroke="#9f845a"/><path d="M10-2v-13h12v13Z" fill="#4a6162" stroke="#354c4d"/><path d="M12-11h8" stroke="#b7c6ad" stroke-width="3"/><circle cx="-23" cy="4" r="4" fill="#e5bf6c"/></g><text x="'+front.x+'" y="'+front.y+'" text-anchor="middle" font-size="7" fill="#ead8ac" transform="rotate(26 '+front.x+' '+front.y+')">РЕСЕПШН</text>');
+  // The far edge of the solid counter occludes the legs, never the head.
+  // This also keeps the administrator readable with the two rotated footprints.
+  const station=o.rotation%2?[.04,.5]:[.5,.04],a=project(o.x+w*station[0],o.y+h*station[1]);
+  const administrator=o.enabled===false?'':'<g data-administrator="'+esc(o.id??'preview')+'" role="img" aria-label="Администратор за стойкой" transform="translate('+a.x+' '+a.y+') scale(.64)"><title>Администратор клуба</title>'+personArt(ADMINISTRATOR,{reception:true,back:o.rotation===2||o.rotation===3})+'</g>';
+  return group(administrator+box(o.x+.04,o.y+.04,w-.08,h-.08,37,'#b48c5e','#796951')+'<g transform="translate('+top.x+' '+top.y+')"><path d="M-20-2l16-8 13 7-16 8Z" fill="#eee0ba" stroke="#9f845a"/><path d="M10-2v-13h12v13Z" fill="#4a6162" stroke="#354c4d"/><path d="M12-11h8" stroke="#b7c6ad" stroke-width="3"/><circle cx="-23" cy="4" r="4" fill="#e5bf6c"/></g><text x="'+front.x+'" y="'+front.y+'" text-anchor="middle" font-size="7" fill="#ead8ac" transform="rotate(26 '+front.x+' '+front.y+')">РЕСЕПШН</text>');
  }
  if(item.family==='table'){
   let a='';for(const [dx,dy]of [[.15,.15],[w-.15,.15],[w-.15,h-.15],[.15,h-.15]]){const q=project(o.x+dx,o.y+dy);a+='<path d="M'+q.x+' '+q.y+'v-25" stroke="#785c45" stroke-width="5"/>';}

diff --git a/index.html b/index.html
@@ -1,2 +1,2 @@
 <!doctype html>
-<html lang="ru"><head><meta charset="utf-8"><meta name="viewport" content="width=device-width,initial-scale=1,viewport-fit=cover"><meta name="theme-color" content="#26383d"><title>НРИ / Клуб — Тайкун</title><link rel="icon" href="assets/dice.svg" type="image/svg+xml"><link rel="stylesheet" href="src/ui/studio.css"></head><body><div id="game" aria-busy="true"><main class="boot-error"><h1>Открываем клуб…</h1></main></div><script type="module" src="src/ui/app.js"></script></body></html>
+<html lang="ru"><head><meta charset="utf-8"><meta name="viewport" content="width=device-width,initial-scale=1,viewport-fit=cover"><meta name="theme-color" content="#26383d"><title>НРИ / Клуб — Тайкун</title><link rel="icon" href="assets/dice.svg" type="image/svg+xml"><link rel="stylesheet" href="src/ui/studio.css?v=20261020-admin"></head><body><div id="game" aria-busy="true"><main class="boot-error"><h1>Открываем клуб…</h1></main></div><script type="module" src="src/ui/app.js?v=20261020-admin"></script></body></html>

diff --git a/docs/REWORK.md b/docs/REWORK.md
@@ -6,6 +6,7 @@
 
 - Единый интерфейс с десятью разделами, постоянной картой, очередью, часами и состоянием сохранения. Разговоры, покупки, отзывы, настройки и подтверждения встроены в боковую панель. Отдельных игровых окон нет.
 - Физический ресепшн и очередь у входа. Доступность стойки определяет новые поступления гостей. Игрок разговаривает с гостями и рассаживает их по конкретным стульям; персонажи идут по доступным клеткам и дверям.
+- За стойкой находится отдельная фигурка администратора в жилете и с бейджем. Она перемещается со стойкой, остаётся видимой при её поворотах и открывает разговор с гостем по нажатию. Перерисованы пропорции, лица, девять причёсок, одежда, руки и обувь гостей и мастеров; позы стоя, сидя и со спины сохраняют узнаваемость персонажа. В спокойном положении руки и ноги неподвижны; движения конечностей включаются при ходьбе и перетаскивании.
 - Карта с перемещением мышью, клавиатурой и касанием, масштабом у указателя, щипком, возвратом ко всему клубу и изменяемой шириной панели. Новые векторные предметы, портреты и анимации персонажей используют одну систему координат.
 - Покупка выбранных клеток земли по 125 ₽, рисование прямоугольных комнат, комплект готовой игровой, стены, двери, окна и пол. У предметов есть поворот, перемещение, продажа, предпросмотр и проверка коллизий. Коврик занимает стол целиком и поддерживает дополнительные настольные аксессуары. Покупка сохраняет геометрию и деньги одной операцией; доступна отмена последнего строительства.
 - Все 36 типов предметов каталога имеют показанный в магазине эффект: места и вместимость, отдых, хранение, свет, комфорт, сервис, игровые материалы либо ограниченный физический престиж. Престиж учитывает доступность и состояние предмета, ограничен двумя экземплярами одного типа и участвует в доступности дорогих мастеров. Оборудование не отменяет ошибки подбора гостей и нарушения времени.
@@ -21,7 +22,7 @@
 
 **50 проверок модели:** все 36 предметов в четырёх поворотах; физический ресепшн; стоимость и связность земли; повтор операции без второго списания; откат при ошибке сохранения; устаревшая смета; наложение настольных аксессуаров; комната и проходы; ограничения престижа и оценок; последовательные партии; точность проекции и маршрут до каждого стула; площадь уборки и восстановление клуба.
 
-**17 блоков браузерного сценария:** десять разделов без диалоговых окон и лишних полос прокрутки; панорамирование, привязанный к курсору масштаб, Home и размер панели; разговор, перетаскивание, рассадка и движение гостя; окончание партии и реальные платежи; покупка предмета и земли с проверкой денег; поворот в русской раскладке и отмена; коврик и кубики; экспорт, импорт, перезагрузка и новая игра; экраны 390 и 320 пикселей; настоящее сенсорное масштабирование; восстановление повреждённого сохранения.
+**19 блоков браузерного сценария:** десять разделов без диалоговых окон и лишних полос прокрутки; панорамирование, привязанный к курсору масштаб, Home и размер панели; разговор, перетаскивание, рассадка и движение гостя; окончание партии и реальные платежи; покупка предмета и земли с проверкой денег; поворот в русской раскладке и отмена; коврик и кубики; экспорт, импорт, перезагрузка и новая игра; экраны 390 и 320 пикселей; настоящее сенсорное масштабирование; восстановление повреждённого сохранения; нажатие на администратора и галерея двенадцати персонажей с четырьмя поворотами стойки.
 
 Отдельная техническая кампания с явно добавленными **75 000 ₽ тестового бюджета** проверяет постройку и доступ второй комнаты, покупку второго экземпляра игры, найм мастера, запас гостей в 1,5 раза больше мест, параллельные сессии на 2 и 3 часа с однократным расчётом, а также оборудование, оплаченные заказы, доставку запасов и помощника. Этот бюджет не заработан в игровой кампании и не является проверкой экономического баланса.
 
@@ -29,11 +30,13 @@
 
 ## Границы версии
 
-Это отдельная версия для просмотра. Основная ветка и опубликованная N5 ещё не заменены. В исходной базе остаются **10 игровых систем и 36 приключений**; отсутствующий обзор сотен игр не восстановлен из предположений. Новый рисунок персонажей и мебели требует визуальной оценки пользователя. Длительный баланс кампании и каждый из исторического списка дефектов не объявляются проверенными на основании этих сценариев.
+Публикация переделки разрешена пользователем. Игра размещается на [GitHub Pages](https://regmoviee-byte.github.io/nri-club-tycoon/) из основной ветки. Проверка опубликованной версии выполняется отдельно через `tools/review-live.mjs`: сравниваются контрольные суммы основных файлов и запуск интерфейса с администратором. В исходной базе остаются **10 игровых систем и 36 приключений**; отсутствующий обзор сотен игр не восстановлен из предположений. Длительный баланс кампании и каждый из исторического списка дефектов не объявляются проверенными на основании этих сценариев.
 
 Старые записи сохранений и материалы проекта сохраняются. Для переноса кампании между адресами нужен явный экспорт/импорт файла; тесты использовали изолированные новые хранилища, а не сохранения игрока.
 
 ## Снимки
+
+![Новые фигурки и администратор](rework-evidence/characters.png)
 
 ![Новый клуб и ресепшн](rework-evidence/new-club-desktop.png)
 
